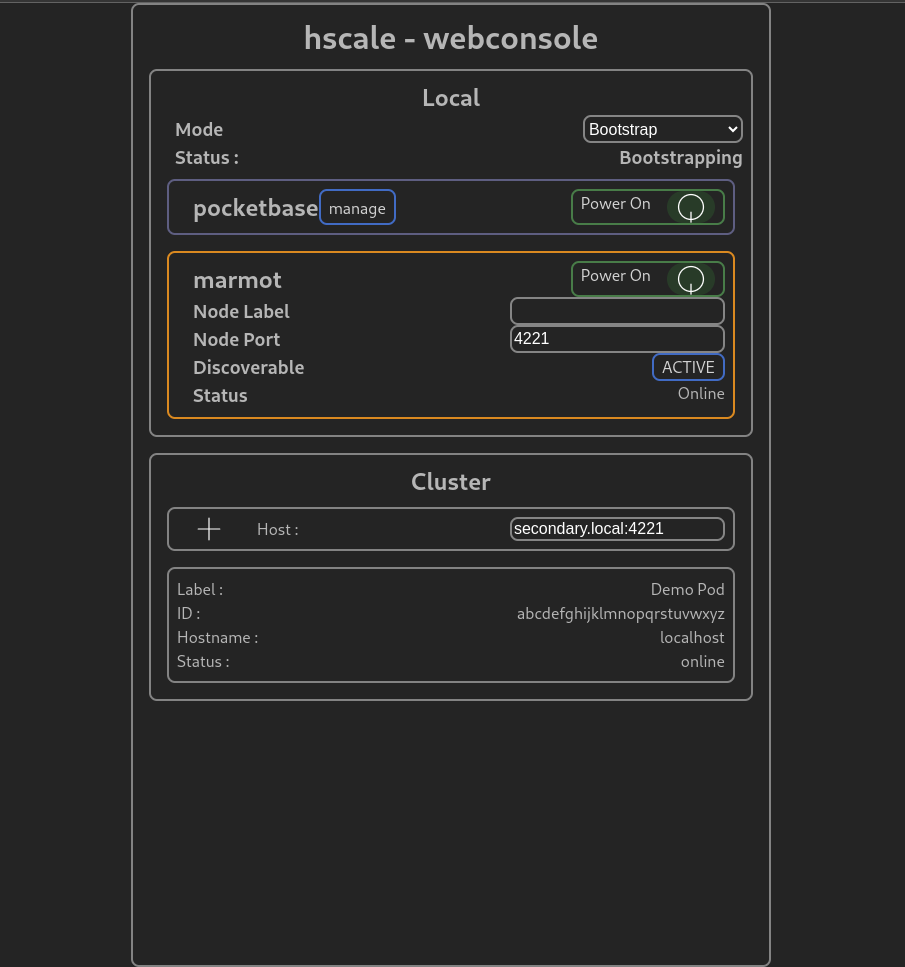
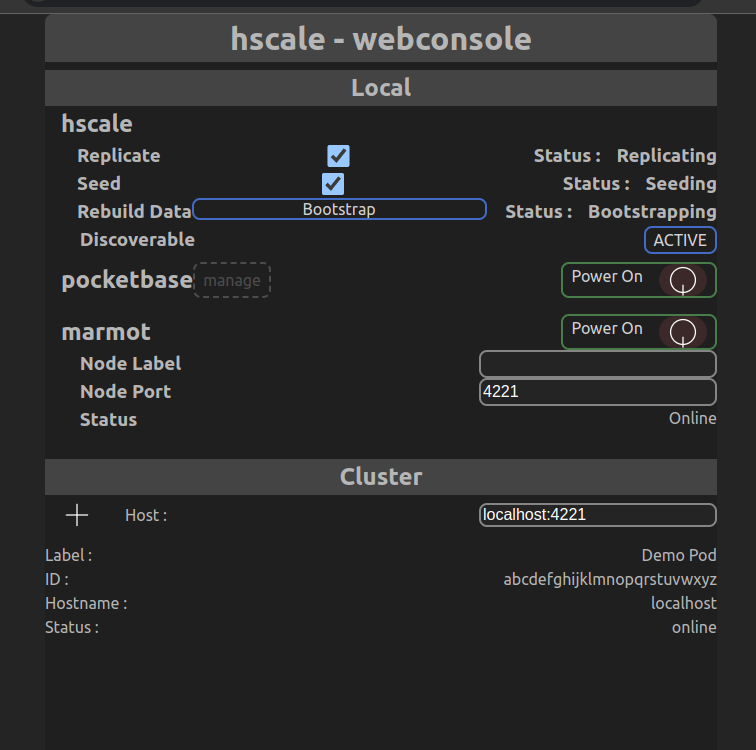
./start.sh checks ports before launching now, added -d detach mode switch, check if container name exists

diff --git a/hscale/webconsole/src/pages/Home.tsx b/hscale/webconsole/src/pages/Home.tsx
@@ -12,14 +12,14 @@ interface State {
 }
 
 interface Pod {
-	label: string;
-	id: string;
-	hostname: string;
-	status: string;
+  label: string;
+  id: string;
+  hostname: string;
+  status: string;
 }
 
 export class Home extends Component<Props, State> {
-	async componentDidMount() {
+  async componentDidMount() {
     const raw = await fetch("/api/status/all");
     const res = await raw.json();
 
@@ -29,87 +29,127 @@ export class Home extends Component<Props, State> {
     });
   }
   renderPod(pod: Pod) {
-		return <div class="pod border">
-			<div class="kv">
-				<span class="k">Label : </span><span class="v">{pod.label}</span>
-			</div>
+    return <div class="pod border">
+      <div class="kv">
+        <span class="k">Label : </span><span class="v">{pod.label}</span>
+      </div>
 
-			<div class="kv">
-				<span class="k">ID : </span> <span class="v">{pod.id}</span>
-			</div>
+      <div class="kv">
+        <span class="k">ID : </span> <span class="v">{pod.id}</span>
+      </div>
 
-			<div class="kv">
-				<span class="k">Hostname : </span><span class="v">{pod.hostname}</span>
-			</div>
+      <div class="kv">
+        <span class="k">Hostname : </span><span class="v">{pod.hostname}</span>
+      </div>
 
-			<div class="kv">
-				<span class="k">Status : </span><span class="v">{pod.status}</span>
-			</div>
-		</div>
-	}
-	renderPods(pods: Pod[]) {
-		const results = [];
+      <div class="kv">
+        <span class="k">Status : </span><span class="v">{pod.status}</span>
+      </div>
+    </div>
+  }
+  renderPods(pods: Pod[]) {
+    const results = [];
 
-		for (const pod of pods) {
-			results.push(this.renderPod(pod));
-		}
+    for (const pod of pods) {
+      results.push(this.renderPod(pod));
+    }
 
-		return results;
-	}
-	render() {
-		const pods = [
-			{
-				label: "Demo Pod",
-				hostname: "localhost",
-				id: "abcdefghijklmnopqrstuvwxyz",
-				status: "online"
-			}
-		];
+    return results;
+  }
+  render() {
+    const pods = [
+      {
+        label: "Demo Pod",
+        hostname: "localhost",
+        id: "abcdefghijklmnopqrstuvwxyz",
+        status: "online"
+      }
+    ];
 
     const hostRef = useRef<HTMLInputElement>();
 
-		return <div class="home border">
-			<h1 class="text-center">hscale - webconsole</h1>
-			<div class="section border">
-				<h2 class="text-center">Local</h2>
-				<div class="row">
-					<h3 title="Target mode for replication">Mode</h3>
-					<div class="col">
-						<select class="dropdown align-flex-end">
-							<option title="Data can be synced to new nodes">Seed</option>
-							<option title="Data can be replicated to linked nodes">Replicate</option>
-							<option title="Data incomplete, tries to sync with cluster">Bootstrap</option>
-						</select>
-					</div>
-				</div>
+    return <div class="home border">
+      <h1 class="text-center header">hscale - webconsole</h1>
+      <div class="section border">
+        <h2 class="text-center header">Local</h2>
+        <div class="row">
+          <h2 title="a database in one executable">hscale</h2>
+        </div>
+        <div class="row indent">
+          <h3 for="b-replicate">Replicate</h3>
+          <input id="b-replicate" type="checkbox"></input>
 
-				<div class="row">
-					<h3 title="Replication status">Status :</h3>
-					<div class="col">
-						<h3 class="align-flex-end"
-							title="syncing database from cluster for the first time"
-						>Bootstrapping</h3>
-					</div>
-				</div>
+          <h3 class="indent" title="Replication status">Status :</h3>
+          <h3
+            class="align-flex-end"
+            title="syncing database from cluster for the first time"
+          >Replicating</h3>
+        </div>
+        <div class="row indent">
+          <h3 for="b-replicate">Seed</h3>
+          <input id="b-replicate" type="checkbox"></input>
 
-				<div class="pocketbase border">
-					<div class="row">
-						<h2 title="a database in one executable">pocketbase</h2>
-						<button
+          <h3 class="indent" title="Replication status">Status :</h3>
+          <h3
+            class="align-flex-end"
+            title="syncing database from cluster for the first time"
+          >Seeding</h3>
+        </div>
+        <div class="row indent">
+          <h3 for="b-bootstrap">Rebuild Data</h3>
+          <div class="col">
+            <button
+              class="btn"
+              id="bootstrap"
+              onClick={()=>{
+                const KEY = "HSCALE";
+
+                if (
+                  confirm(
+                    "DANGER: Bootstrap will rebuild local db from a Seed enabled node in the existing cluster. If a seed is not found then no data will change. Please confirm:"
+                  ) && prompt(
+                    `Please enter: ${KEY} to confirm data loss is allowed:`, ""
+                  ) === KEY
+                ) {
+                  fetch("/api/bootstrap");
+                } else {
+                  alert("Bootstrap action is cancelled due to user input.");
+                }
+              }}
+              >Bootstrap</button>
+          </div>
+          <h3 class="indent" title="Replication status">Status :</h3>
+          <h3
+            class="align-flex-end"
+            title="syncing database from cluster for the first time"
+          >Bootstrapping</h3>
+        </div>
+
+        <div class="row">
+          <h3 class="indent" title="Unlinked cluster nodes will be pinged if active">Discoverable</h3>
+          <div class="col">
+            <div class="btn align-flex-end">ACTIVE</div>
+          </div>
+        </div>
+
+        <div class="pocketbase border">
+          <div class="row">
+            <h2 title="a database in one executable">pocketbase</h2>
+            <button
               class="btn"
               title="opens pocketbase web console"
-              onClick={()=>{
+              onClick={() => {
                 const proto = window.location.protocol;
                 const hostname = window.location.hostname;
                 window.open("/pb");
               }}
               disabled={!this.state.pbOnline}
-              >manage</button>
-						<div class="col">
-							<div
-								class="btn power align-flex-end"
-								title="Toggle container online"
-                onClick={async()=>{
+            >manage</button>
+            <div class="col">
+              <div
+                class="btn power align-flex-end"
+                title="Toggle container online"
+                onClick={async () => {
                   const raw = await fetch("/api/toggle/pb");
                   const res = await raw.json();
 
@@ -121,21 +161,21 @@ export class Home extends Component<Props, State> {
                     console.warn("Failed to toggle pb");
                   }
                 }}
-							>
-								<span>{ this.state.pbOnline ? "Power Off" : "Power On"}</span>
-								<div class={this.state.pbOnline ? "on" : "off"} />
-							</div>
-						</div>
-					</div>
-				</div>
-				<div class="marmot border">
-					<div class="row">
-						<h2 title="an sqlite replicator">marmot</h2>
-						<div class="col">
-							<div
-								class="btn power align-flex-end"
-								title="Toggle container online"
-                onClick={async()=>{
+              >
+                <span>{this.state.pbOnline ? "Power Off" : "Power On"}</span>
+                <div class={this.state.pbOnline ? "on" : "off"} />
+              </div>
+            </div>
+          </div>
+        </div>
+        <div class="marmot border">
+          <div class="row">
+            <h2 title="an sqlite replicator">marmot</h2>
+            <div class="col">
+              <div
+                class="btn power align-flex-end"
+                title="Toggle container online"
+                onClick={async () => {
                   const raw = await fetch("/api/toggle/marmot");
                   const res = await raw.json();
 
@@ -147,67 +187,61 @@ export class Home extends Component<Props, State> {
                     console.warn("Failed to toggle marmot");
                   }
                 }}
-							>
-								<span>{ this.state.marmotOnline ? "Power Off" : "Power On"}</span>
-								<div class={this.state.marmotOnline ? "on" : "off"} />
-							</div>
-						</div>
-					</div>
+              >
+                <span>{this.state.marmotOnline ? "Power Off" : "Power On"}</span>
+                <div class={this.state.marmotOnline ? "on" : "off"} />
+              </div>
+            </div>
+          </div>
 
-					<div class="row">
-						<h3 title="Human friendly name">Node Label</h3>
-						<div class="col">
-							<input class="align-flex-end" />
-						</div>
-					</div>
-					<div class="row">
-						<h3 title="Marmot port, should be accessible from cluster">Node Port</h3>
-						<div class="col">
-							<input class="align-flex-end" value="4221" />
-						</div>
-					</div>
-					<div class="row">
-						<h3 title="Unlinked cluster nodes will be pinged if active">Discoverable</h3>
-						<div class="col">
-							<div class="btn align-flex-end">ACTIVE</div>
-						</div>
-					</div>
-					<div class="row">
-						<h3 title="container status">Status</h3>
-						<div class="col">
-							<div class="align-flex-end">Online</div>
-						</div>
-					</div>
+          <div class="row">
+            <h3 class="indent" title="Human friendly name">Node Label</h3>
+            <div class="col">
+              <input class="align-flex-end" />
+            </div>
+          </div>
+          <div class="row">
+            <h3 class="indent" title="Marmot port, should be accessible from cluster">Node Port</h3>
+            <div class="col">
+              <input class="align-flex-end" value="4221" />
+            </div>
+          </div>
+          <div class="row">
+            <h3 class="indent" title="container status">Status</h3>
+            <div class="col">
+              <div class="align-flex-end">Online</div>
+            </div>
+          </div>
 
-				</div>
-			</div>
+        </div>
+      </div>
 
-			<div class="section border">
-				<h2 class="text-center">Cluster</h2>
-				<div class="pod border">
-					<div class="row">
-						<div class="add"
-              onClick={async()=>{
+      <div class="section border">
+        <h2 class="text-center header">Cluster</h2>
+        <div class="pod border">
+          <div class="row">
+            <div class="add"
+              onClick={async () => {
                 const raw = await fetch(`/api/add/${hostRef.current.value}`);
                 const res = await raw.json();
 
                 if (res.status === "success") {
-                  
+
                 }
               }}
             />
-						<label for="host-input">Host : </label>
-						<div class="col">
-							<input
+            <label for="host-input">Host : </label>
+            <div class="col">
+              <input
                 ref={hostRef}
-								class="align-flex-end"
-								id="host-input" value="localhost:4221" />
-						</div>
-					</div>
-				</div>
-				{this.renderPods(pods)}
-			</div>
-		</div>
-	}
+                class="align-flex-end"
+                id="host-input" value="localhost:4221" />
+            </div>
+          </div>
+        </div>
+        {this.renderPods(pods)}
+      </div>
+    </div>
+  }
 }
 

diff --git a/hscale/webconsole/src/pages/style.css b/hscale/webconsole/src/pages/style.css
@@ -2,6 +2,9 @@
 h1,h2,h3,h4 {
   margin: 0;
 }
+.header {
+  background-color: #444444;
+}
 
 select,input {
   flex: 1;
@@ -16,9 +19,9 @@ select,input {
 .border {
   border-width: 2px;
   border-color: #838383;
-  border-style: solid;
-  margin: 0.5em;
-  padding: 0.5em;
+  /* border-style: solid; */
+  margin: 0.5em 0;
+  /* padding: 0.5em 0; */
   border-radius: 0.5em;
   cursor: default;
 }
@@ -30,6 +33,11 @@ select,input {
   color: #b6b6b6ff;
   overflow-y:auto;
   margin: 0 25%;
+  background-color: #1f1f1f;
+}
+
+.indent {
+  text-indent: 1em;
 }
 
 @media (max-width: 1200px) {
